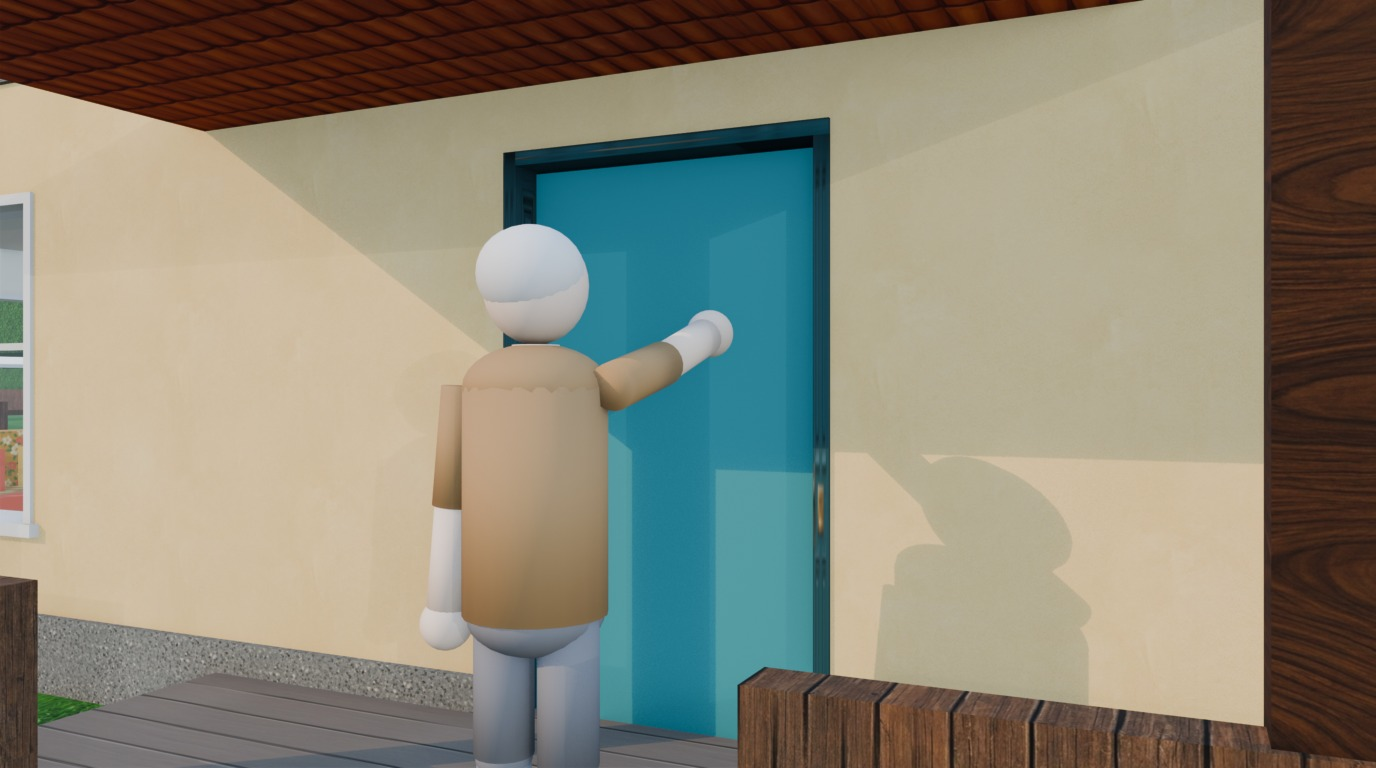
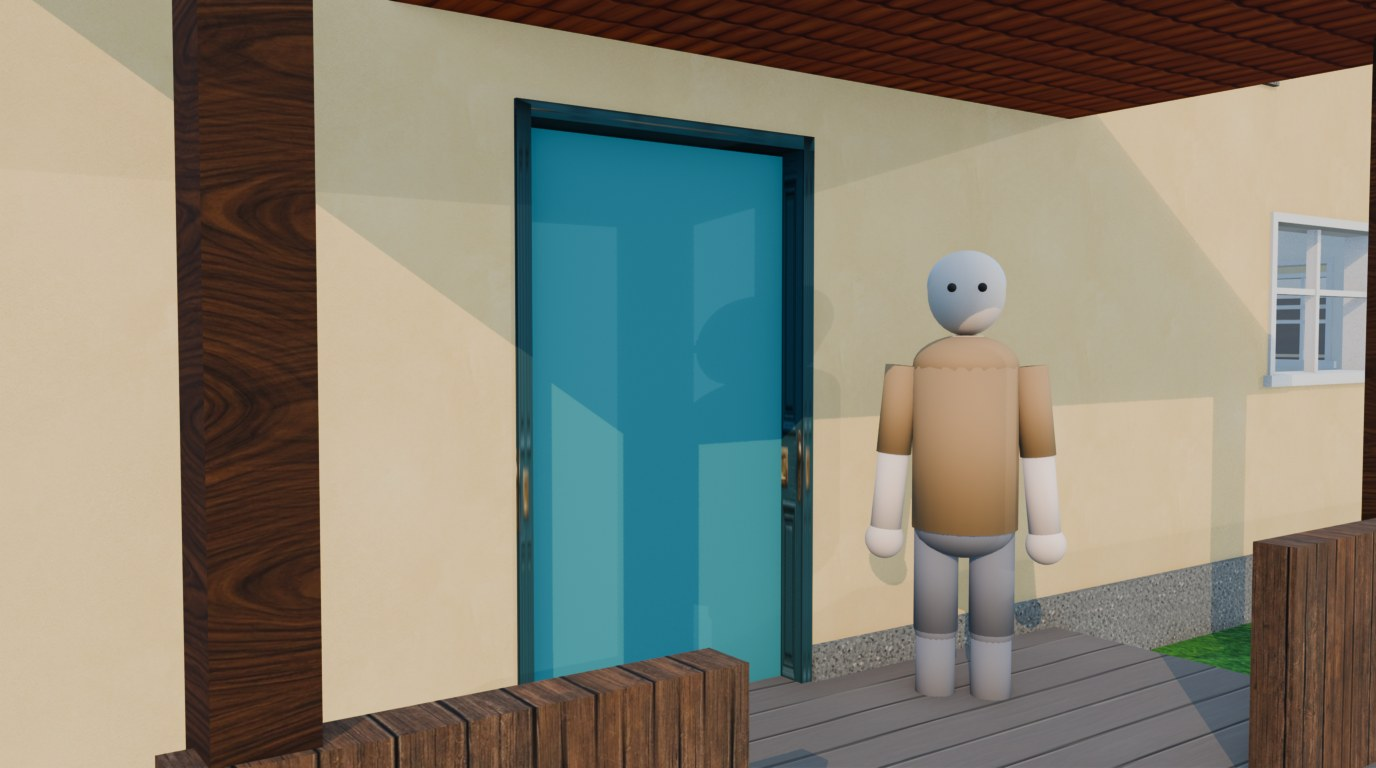
Tante Frieda: 8 weitere Flow-Startbilder (51/70), SH109 frontal, Hochkant-Prompts

diff --git a/12_Folge_Tante_Frieda/flow_chrome_prompts.py b/12_Folge_Tante_Frieda/flow_chrome_prompts.py
@@ -24,7 +24,7 @@ EXTRA_O = {"Kuchen": r"kuchen", "Muetze": r"mütze", "Sprueher": r"sprüh", "Ste
 OVERRIDE = {"SH075": ["Maxi", "Anna"], "SH071": ["Anna", "Maxi"], "SH073": ["Maxi", "Anna"]}   # Regex-Treffer falsch (\"Tante\" im Text, Frieda nicht im Bild)
 
 
-def build(mode, sid):
+def build(mode, sid, hoch=False):
     plan = {x["id"]: x for x in json.load(open(f"{M.E}/szenenplan_r5.json"))}
     x = plan[sid]
     f, o = M.figuren(x)
@@ -55,9 +55,12 @@ def build(mode, sid):
     if re.search(r"garten|einfahrt|außen", x["ort"].lower()):
         licht = " LICHT: draußen, warmes tiefes goldenes Nachmittagssonnenlicht (Novembersonne), lange weiche Schatten, blauer Himmel mit leichtem Dunst in der Ferne."
     p += licht + sp + M.GESICHT + M.NOTE.replace("keine Gliederpuppen-Optik;", "keine Gliederpuppen-Optik, kein schwarzer Rand;")
+    if hoch:   # TikTok-Hochkant: Mockups aus 02_Szenen_Blender_Mockups/hochkant, in Flow als SHxxx_hoch.jpg
+        refs = [(r.replace("_mockup", "_hoch"), d.replace("Blender-Mockup", "Blender-Mockup hochkant")) for r, d in refs]
+        p = p.replace("Querformat 16:9", "HOCHFORMAT 9:16 (vertikal, für TikTok)").replace("Blender-Mockup SH", "Blender-Mockup hochkant SH")
     return [r for r, _ in refs], p
 
 
 if __name__ == "__main__":
-    refs, p = build(sys.argv[1], sys.argv[2])
+    refs, p = build(sys.argv[1], sys.argv[2], hoch="--hoch" in sys.argv)
     print("REFS:", " | ".join(refs)); print(p)

diff --git a/12_Folge_Tante_Frieda/02_Szenen_Blender_Mockups/build_frieda_szenen.py b/12_Folge_Tante_Frieda/02_Szenen_Blender_Mockups/build_frieda_szenen.py
@@ -644,13 +644,13 @@ def _(col):
     L.build_figure("Maxi", (-17.0, 1.4), 180, "stand", col)
 
 
-@scene("SH109", ((2.2, -9.6, 1.40), (0.8, -6.6, 1.40), 28.0))
+@scene("SH109", ((-1.6, -9.6, 1.50), (0.45, -6.7, 1.35), 30.0))   # frontal (2026-11-07, User): Kamera neben der Haustür
 def _(col):
     for o in bpy.data.objects:                                                              # offenes Türblatt weg, geschlossene Haustür davor
         if o.name.startswith("EG_Aussenwand_Sued_front_door_3_leaf"):
             o.hide_render = True
     L.box("Haustuer_zu", (0.62, -6.28, 1.10), (1.12, 0.07, 2.12), L.mat("MAT_Haustuer_Teal", (0.05, 0.30, 0.33, 1)), col)
-    L.build_figure("Opa_Heinrich", (0.7, -7.3), 90, "point", col)                           # klingelt an der geschlossenen Haustür
+    L.build_figure("Opa_Heinrich", (1.55, -6.85), 222, "stand", col)       # frontal neben der Tür, Klingel rechts am Rahmen                         # frontal zur Kamera, klingelt am Türrahmen
 
 
 @scene("SH165", ((0.0, -5.2, 1.30), (0.5, -2.2, 1.30), 30.0))
